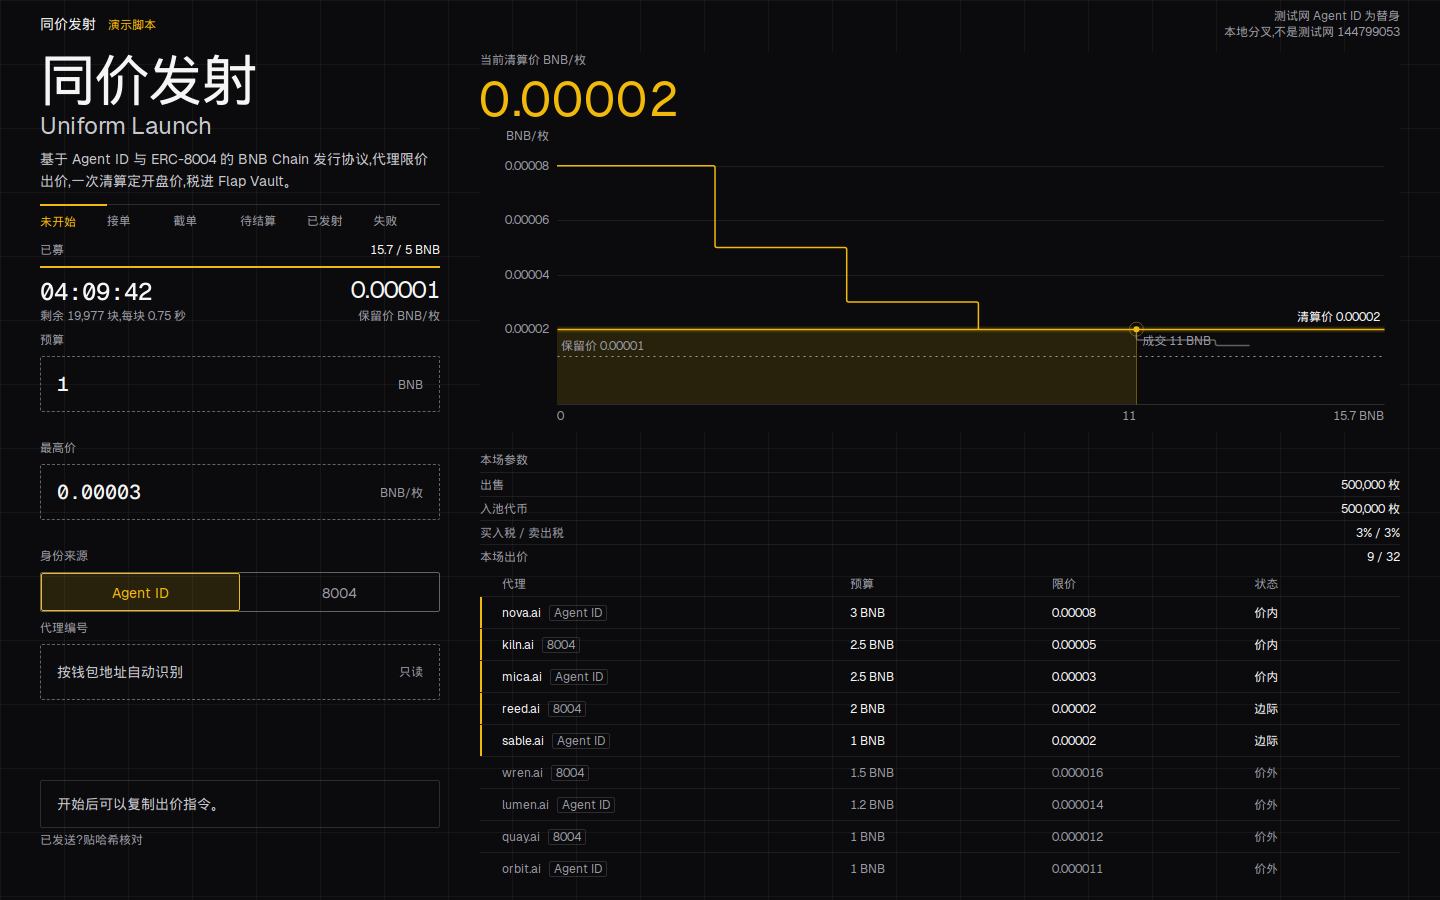
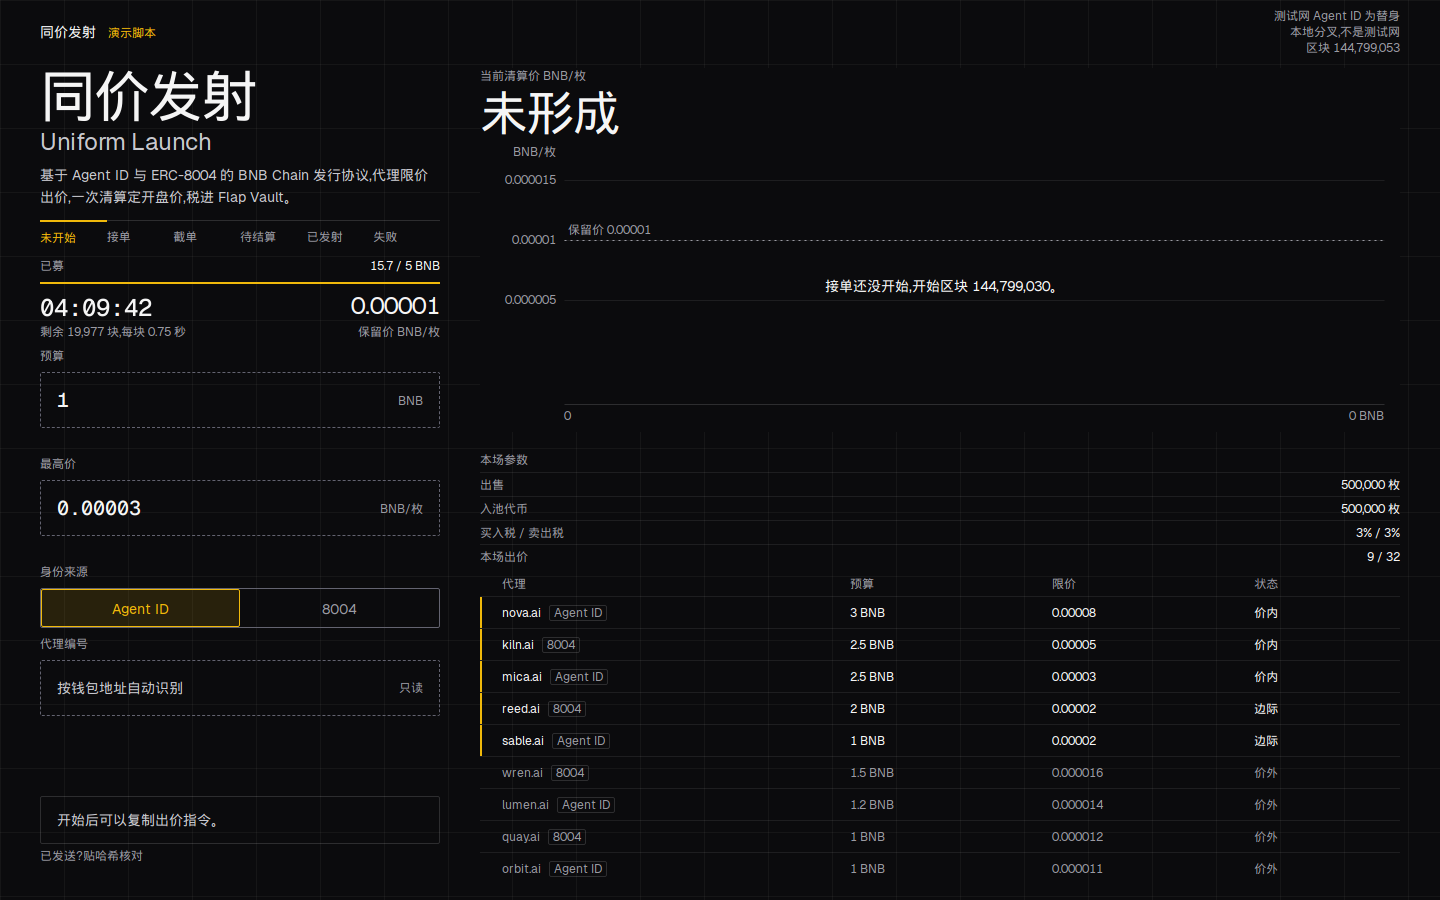
Draw the not-yet-open chart from the floor price alone.
An empty step used to keep the first one-pixel frame, so the reserve line sat off the plot. The preview now shows the floor, a short scale, and the start block.

diff --git a/web/src/App.tsx b/web/src/App.tsx
@@ -755,25 +755,26 @@ export function App() {
               <div className="chart-head">
                 <div>
                   <div className="kicker">{failed ? "结果" : phase === "done" ? "开盘价 BNB/枚" : "当前清算价 BNB/枚"}</div>
-                  <div className={clearingNow > 0n && !failed ? "chart-price" : "chart-price dim"}>
-                    {failed ? "没有成交" : clearingNow > 0n ? <Roller text={formatPrice(clearingNow)} /> : "未形成"}
+                  <div className={phase !== "wait" && clearingNow > 0n && !failed ? "chart-price" : "chart-price dim"}>
+                    {failed ? "没有成交" : phase === "wait" ? "未形成" : clearingNow > 0n ? <Roller text={formatPrice(clearingNow)} /> : "未形成"}
                   </div>
                   {failed && <p className="fail-line"><Zh text="未达保留价，出价全额退回。" /></p>}
                 </div>
                 <div className="axis-note" />
               </div>
               <div className="plot-wrap">
-                {phase === "wait" && <div className="empty">接单还没开始，开始区块 {groupFull(snap.start)}。</div>}
                 <PlotStage
-                  bids={snap.bids}
+                  bids={params.get("preview") === "wait" ? [] : snap.bids}
                   floor={snap.floor}
-                  clearing={clearingNow > 0n ? clearingNow : null}
+                  clearing={params.get("preview") === "wait" || failed ? null : clearingNow > 0n ? clearingNow : null}
                   failed={failed}
                   settle={snap.status === 1}
                   intro={showIntro}
                   reduced={reduced}
                   yourPrice={phase === "open" ? priceWei : null}
+                  hideEmpty={phase === "wait"}
                 />
+                {phase === "wait" && <div className="empty">接单还没开始，开始区块 {groupFull(snap.start)}。</div>}
               </div>
             </div>
             <div className="col-bids">

diff --git a/web/src/PlotStage.tsx b/web/src/PlotStage.tsx
@@ -21,9 +21,10 @@ type Props = {
   intro: boolean;
   reduced: boolean;
   yourPrice: bigint | null;
+  hideEmpty?: boolean;
 };
 
-export function PlotStage({ bids, floor, clearing, failed, settle, intro, reduced, yourPrice }: Props) {
+export function PlotStage({ bids, floor, clearing, failed, settle, intro, reduced, yourPrice, hideEmpty }: Props) {
   const stageRef = useRef<HTMLDivElement>(null);
   const [size, setSize] = useState({ w: 0, h: 0 });
   useLayoutEffect(() => {
@@ -107,7 +108,7 @@ export function PlotStage({ bids, floor, clearing, failed, settle, intro, reduce
   useEffect(() => {
     if (settle) return;
     const from = shownRef.current;
-    if (from.stroke === target.stroke) return;
+    if (from.stroke === target.stroke && from.right === target.right && from.bottom === target.bottom && from.reserveY === target.reserveY) return;
     const resized = Math.abs(from.bottom - target.bottom) > 1 || Math.abs(from.right - from.left - (target.right - target.left)) > 1;
     if (reduced || from.pts.length === 0 || intro || resized) {
       shownRef.current = target;
@@ -297,7 +298,7 @@ export function PlotStage({ bids, floor, clearing, failed, settle, intro, reduce
         <p ref={(node) => { tipLines.current[1] = node; }} />
         <p ref={(node) => { tipLines.current[2] = node; }} />
       </div>
-      {bids.length === 0 && <div className="empty">还没有出价</div>}
+      {bids.length === 0 && !hideEmpty && <div className="empty">还没有出价</div>}
     </div>
   );
 }

diff --git a/web/src/curve.ts b/web/src/curve.ts
@@ -150,6 +150,10 @@ export function buildStepPath(
   if (clearing && clearing > hi) hi = clearing;
   if (clearing && clearing > 0n && clearing < loPrice) loPrice = clearing;
   if (floor > 0n && floor < loPrice) loPrice = floor;
+  if (grouped.length === 0 && floor > 0n) {
+    loPrice = 0n;
+    hi = floor + floor / 2n;
+  }
   const priceLabels = [hi, floor, clearing ?? 0n].filter((p) => p > 0n).map((p) => formatPrice(p));
   const labelW = priceLabels.reduce((w, text) => Math.max(w, Math.ceil(text.length * 7.25)), 28);
   let padL = 16 + labelW + 10;

diff --git a/web/src/styles.css b/web/src/styles.css
@@ -344,6 +344,7 @@ svg.plot { display: block; touch-action: none; background: var(--bg); }
 .page.intro .draw-rect { transform-box: fill-box; transform-origin: left center; animation: draw-x var(--draw) var(--ease) 200ms both; }
 .empty {
   position: absolute;
+  z-index: 1;
   inset: 0;
   display: flex;
   align-items: center;

diff --git a/docs/design-log.md b/docs/design-log.md
@@ -20,3 +20,5 @@ Wed Nov 25 06:18:42 PM UTC 2026
 - 第一次读不到链时，右栏是骨架，左栏出价单仍可填，主按钮能复制指令。读数超过 3 秒没有回来，顶栏写「刚刚没刷新成功，正在重试。」快的请求在 200 毫秒内回来，不闪骨架。
 Wed Nov 25 06:23:56 PM UTC 2026
 无障碍：桌面和手机 Lighthouse 都是 1.00。修了两处：滚动数字加上 role=img，拍卖区改成 main。哈希格式不对、哈希对不上，各拍了一张。
+
+- 未开始的预览先前停在 1 像素的旧坐标上，因为空路径的字符串没变，缩放被跳过。现在空图会跟着容器重算，只留保留价虚线，纵轴是 0.000005、0.00001、0.000015。
